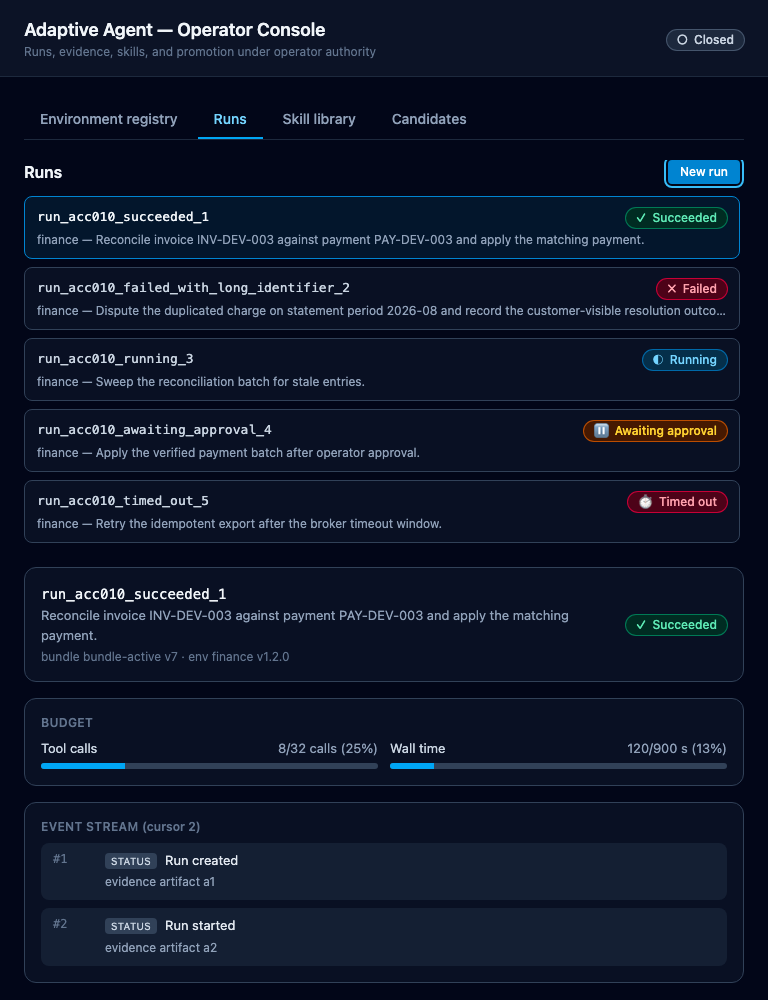
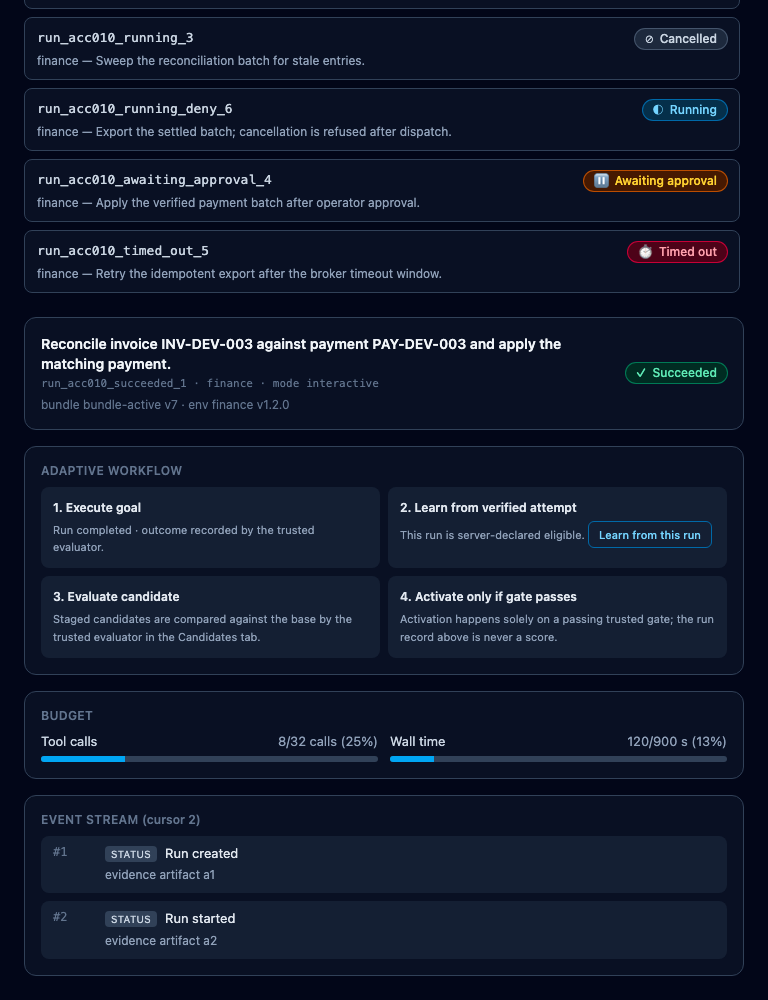
feat(console): visible adaptive workflow, carried Learn-from-this-run action; classified cancellation/focus-return QA
- WorkflowStrip on the run detail: Execute goal -> Learn from verified attempt -> Evaluate candidate -> Activate only if gate passes, with captions from actual records only (server-declared status/eligibility; candidates/evaluations pointed to the Candidates tab; no invented progress)
- 'Learn from this run' on server-declared learningEligible selected runs: carries the run into the existing learning dialog (preselected), respects refresh/loading; never implies generation is measured improvement or promotion
- run detail header now leads with the human task title, compact secondary IDs (runId/env/mode) beneath
- acc010 fixture server: classified POST /runs/{id}/cancel (success + honest 409 FORBIDDEN failure with correlation) for cancellation/recovery QA; in-memory only
- acc010-browser-qa: cancellation success (Cancelled badge + banner) and failure (error banner with correlation, status unchanged); learning-dialog focus-return via Escape verified (dialog closes, focus lands on the carried action's learning-cycle button after the tab switch; invoker-marked fallback in Modal)
- Modal: stable onClose ref (listeners/focus restore no longer churn per render)
- 68/68 tests, tsc clean, build clean

Changed region(s): [[0.0312, 0.0, 0.9688, 0.961], [0.8125, 0.0, 0.9688, 0.124], [0.0625, 0.899, 0.0938, 0.93]]

diff --git a/console/src/views/RunView.tsx b/console/src/views/RunView.tsx
@@ -30,6 +30,7 @@ export function RunView({
   onCreateRun,
   onActionError,
   onReconnect,
+  onLearnFromRun,
 }: {
   transport: ConsoleTransport;
   runs: RunRecord[];
@@ -44,6 +45,7 @@ export function RunView({
   onCreateRun: (input: CreateRunInput) => Promise<boolean>;
   onActionError: (message: string, correlationId?: string | null) => void;
   onReconnect: () => void;
+  onLearnFromRun: (runId: string) => void;
 }) {
   const selected = runs.find((r) => r.runId === selectedRunId) ?? null;
   const [approval, setApproval] = useState<{ request: ApprovalRequest } | null>(null);
@@ -156,8 +158,10 @@ export function RunView({
           <div className="space-y-4">
             <div className="flex flex-wrap items-center justify-between gap-3 rounded-xl border border-slate-700 bg-slate-900/60 p-4">
               <div className="min-w-0 flex-1">
-                <h3 className="break-all font-mono text-sm text-slate-100">{selected.runId}</h3>
-                <p className="mt-0.5 text-[13px] text-slate-400 [overflow-wrap:anywhere]">{selected.goal}</p>
+                <h3 className="text-sm font-semibold text-slate-100 [overflow-wrap:anywhere]">{selected.goal}</h3>
+                <p className="mt-0.5 font-mono text-[11px] text-slate-500">
+                  <span className="break-all">{selected.runId}</span> · {selected.environmentId} · mode {selected.executionMode ?? "interactive"}
+                </p>
                 <p className="mt-1 text-xs text-slate-500 [overflow-wrap:anywhere]">
                   bundle {selected.skillBundleRef.id} v{selected.skillBundleRef.version} · env {selected.environmentRef.id} v{selected.environmentRef.version}
                 </p>
@@ -175,6 +179,8 @@ export function RunView({
                 ) : null}
               </div>
             </div>
+
+            <WorkflowStrip selected={selected} onLearnFromRun={onLearnFromRun} />
 
             {connection === "stale" && (
               <Banner tone="warn" title="Event stream stale — reconnecting from the last acknowledged cursor" role="alert">
@@ -745,5 +751,60 @@ function ApprovalDialog({
         </div>
       </div>
     </Modal>
+  );
+}
+
+
+/** Honest four-stage workflow guidance using ONLY actual records: the run
+ *  stage reflects the selected run's server status; the learn stage exposes
+ *  the action when the server declares learningEligible; later stages point
+ *  to the Candidates tab where evaluation gates activation. No stage is ever
+ *  marked complete without server data. */
+function WorkflowStrip({
+  selected,
+  onLearnFromRun,
+}: {
+  selected: RunRecord;
+  onLearnFromRun: (runId: string) => void;
+}) {
+  const stages: Array<{ label: string; caption: React.ReactNode }> = [
+    {
+      label: "1. Execute goal",
+      caption: (
+        <>Run {selected.status === "succeeded" ? "completed" : selected.status === "failed" ? "failed" : `in progress (${selected.status})`} · outcome recorded by the trusted evaluator.</>
+      ),
+    },
+    {
+      label: "2. Learn from verified attempt",
+      caption:
+        selected.learningEligible ? (
+          <>This run is server-declared eligible.{" "}
+            <button
+              type="button"
+              onClick={() => onLearnFromRun(selected.runId)}
+              className="rounded-md border border-sky-700 px-2.5 py-1 text-[11px] font-medium text-sky-300 hover:bg-sky-950/60"
+            >
+              Learn from this run
+            </button>
+          </>
+        ) : (
+          <>Eligible after a server-verified outcome (declared per run).</>
+        ),
+    },
+    { label: "3. Evaluate candidate", caption: <>Staged candidates are compared against the base by the trusted evaluator in the Candidates tab.</> },
+    { label: "4. Activate only if gate passes", caption: <>Activation happens solely on a passing trusted gate; the run record above is never a score.</> },
+  ];
+  return (
+    <nav aria-label="Adaptive workflow" className="rounded-xl border border-slate-700 bg-slate-900/60 p-4">
+      <h4 className="text-xs font-semibold uppercase tracking-wide text-slate-500">Adaptive workflow</h4>
+      <ol className="mt-2 grid gap-2 sm:grid-cols-2 xl:grid-cols-4">
+        {stages.map((stage) => (
+          <li key={stage.label} className="rounded-lg bg-slate-800/60 p-3">
+            <p className="text-[12px] font-semibold text-slate-200">{stage.label}</p>
+            <p className="mt-1 text-[11px] leading-relaxed text-slate-400 [overflow-wrap:anywhere]">{stage.caption}</p>
+          </li>
+        ))}
+      </ol>
+    </nav>
   );
 }

diff --git a/console/src/views/CandidatesView.tsx b/console/src/views/CandidatesView.tsx
@@ -12,6 +12,8 @@ export function CandidatesView({
   onActionError,
   onRefreshCandidates,
   onRefreshRuns,
+  learningRequest,
+  onLearningRequestConsumed,
 }: {
   transport: ConsoleTransport;
   candidates: CandidateDiff[];
@@ -21,6 +23,9 @@ export function CandidatesView({
   onRefreshCandidates: () => void;
   /** refresh authoritative run records (eligibility) without a reload */
   onRefreshRuns: () => void;
+  /** carried selection from "Learn from this run": opens the dialog preselected */
+  learningRequest: { runId: string } | null;
+  onLearningRequestConsumed: () => void;
 }) {
   const [rollbackTarget, setRollbackTarget] = useState<CandidateDiff | null>(null);
   const [reason, setReason] = useState("");
@@ -28,6 +33,21 @@ export function CandidatesView({
   const [cycleOpen, setCycleOpen] = useState(false);
   const [cycleBusy, setCycleBusy] = useState(false);
   const [cycleRunId, setCycleRunId] = useState("");
+  // "Learn from this run" carries the selected run into this dialog
+  useEffect(() => {
+    if (learningRequest) {
+      onRefreshRuns();
+      setCycleRunId(learningRequest.runId);
+      setCycleOpen(true);
+      onLearningRequestConsumed();
+      // the dialog was invoked from another tab: its focus-return target is
+      // the learning-cycle action here (the original invoker unmounted)
+      requestAnimationFrame(() => {
+        document.querySelector("[data-acc010-learning-cycle]")?.setAttribute("data-acc010-focus-return", "");
+      });
+    }
+    // eslint-disable-next-line react-hooks/exhaustive-deps
+  }, [learningRequest]);
   const [notice, setNotice] = useState<{ tone: "good" | "bad"; text: string } | null>(null);
   const [evalJobs, setEvalJobs] = useState<EvaluationJob[] | null>(null);
   const [evalJobsError, setEvalJobsError] = useState<string | null>(null);
@@ -293,6 +313,7 @@ export function CandidatesView({
         onClose={() => setCycleOpen(false)}
         runs={eligibleRuns}
         busy={cycleBusy}
+        preselectedRunId={cycleRunId}
         onSubmit={(input) => void runCycle(input)}
       />
 
@@ -362,6 +383,7 @@ function LearningCycleButton({ busy, onRun }: { busy: boolean; onRun: () => void
         type="button"
         onClick={onRun}
         disabled={busy}
+        data-acc010-learning-cycle=""
         className="rounded-md bg-sky-600 px-4 py-1.5 text-sm font-medium text-white hover:bg-sky-500 disabled:opacity-60"
         title="Select a completed development run; the runtime generates the proposal and evidence"
       >
@@ -376,15 +398,22 @@ function LearningCycleModal({
   onClose,
   runs,
   busy,
+  preselectedRunId,
   onSubmit,
 }: {
   open: boolean;
   onClose: () => void;
   runs: RunRecord[];
   busy: boolean;
+  /** run carried in from "Learn from this run" (or a previous dialog session) */
+  preselectedRunId?: string;
   onSubmit: (input: LearningCycleInput) => void;
 }) {
-  const [runId, setRunId] = useState("");
+  const [runId, setRunId] = useState(preselectedRunId ?? "");
+  // keep the carried selection in sync when the dialog opens
+  useEffect(() => {
+    if (open && preselectedRunId) setRunId(preselectedRunId);
+  }, [open, preselectedRunId]);
   return (
     <Modal open={open} title="Run learning cycle" onClose={onClose}>
       <form

diff --git a/console/src/ui/qa-regressions.test.tsx b/console/src/ui/qa-regressions.test.tsx
@@ -161,6 +161,29 @@ describe("qa regressions: createRun recovery and honesty", () => {
     expect(await screen.findByText(/Proposal validation passed — this is not a performance result/)).toBeInTheDocument();
   });
 
+  it("shows the workflow strip and Learn-from-this-run only for server-declared eligible runs", async () => {
+    const user = userEvent.setup();
+    const sim = createSimulationTransport({ disconnectAfterEvents: 0 });
+    const runs = await sim.listRuns();
+    const eligible = { ...runs[3], learningEligible: true };
+    const ineligible = { ...runs[0], status: "running" as const, learningEligible: false };
+    const transport: ConsoleTransport = { ...sim, listRuns: async () => [eligible, ineligible] };
+    render(<App transport={transport} />);
+    await screen.findAllByRole("button", { name: /run-sim-1004/ });
+    // workflow guidance renders all four stages with honest captions
+    expect(screen.getByText("1. Execute goal")).toBeInTheDocument();
+    expect(screen.getByText("2. Learn from verified attempt")).toBeInTheDocument();
+    expect(screen.getByText("3. Evaluate candidate")).toBeInTheDocument();
+    expect(screen.getByText("4. Activate only if gate passes")).toBeInTheDocument();
+    // select the eligible run: the Learn action appears
+    await user.click(screen.getAllByRole("button", { name: /run-sim-1004/ })[0]);
+    expect(await screen.findByRole("button", { name: "Learn from this run" })).toBeInTheDocument();
+    // select the ineligible run: guidance replaces the action, no fake progress
+    await user.click(screen.getAllByRole("button", { name: /run-sim-1001/ })[0]);
+    await waitFor(() => expect(screen.queryByRole("button", { name: "Learn from this run" })).not.toBeInTheDocument());
+    expect(screen.getByText(/Eligible after a server-verified outcome/)).toBeInTheDocument();
+  });
+
   it("lists a run whose learningEligible flips true after the terminal outcome, without a full reload (QA run_a1662f…)", async () => {
     const user = userEvent.setup();
     const sim = createSimulationTransport({ disconnectAfterEvents: 0 });
@@ -256,7 +279,7 @@ describe("qa regressions: createRun recovery and honesty", () => {
     // default and only option is the declared mode
     expect(modeSelect).toHaveValue("dry_run");
     expect(within(modeSelect).getAllByRole("option")).toHaveLength(1);
-    expect(screen.queryByText(/interactive/)).not.toBeInTheDocument();
+    expect(within(dialog).queryByText(/interactive/)).not.toBeInTheDocument(); // only declared modes in the dialog
   });
 
   it("acknowledges successful package validation visibly", async () => {

diff --git a/console/src/components/ui.tsx b/console/src/components/ui.tsx
@@ -61,18 +61,23 @@ export function Modal({
 }) {
   const panelRef = useRef<HTMLDivElement>(null);
   const restoreRef = useRef<HTMLElement | null>(null);
+  // stable onClose: the effect subscribes once per open; a changing onClose
+  // identity must not tear down listeners or steal focus mid-render
+  const onCloseRef = useRef(onClose);
+  onCloseRef.current = onClose;
 
   useEffect(() => {
     if (!open) return;
     restoreRef.current = document.activeElement as HTMLElement | null;
     const panel = panelRef.current;
     // initial focus prefers the first text field (DOM order) over buttons
-    panel?.querySelector<HTMLElement>("textarea, input, select, button, [tabindex]")?.focus();
+    const activePanel = panel;
+    activePanel?.querySelector<HTMLElement>("textarea, input, select, button, [tabindex]")?.focus();
 
     const onKey = (event: KeyboardEvent) => {
       if (event.key === "Escape") {
         event.preventDefault();
-        onClose();
+        onCloseRef.current();
         return;
       }
       if (event.key !== "Tab" || !panel) return;
@@ -90,12 +95,32 @@ export function Modal({
         first.focus();
       }
     };
+    // Attach to BOTH the panel and the document. The panel listener covers
+    // keys pressed inside the focused dialog; the document listener covers
+    // synthetic/edge cases. Each effect removes exactly its own listeners.
+    activePanel?.addEventListener("keydown", onKey);
     document.addEventListener("keydown", onKey);
     return () => {
+      activePanel?.removeEventListener("keydown", onKey);
       document.removeEventListener("keydown", onKey);
-      restoreRef.current?.focus();
+      // restore focus to the invoking control. An explicitly marked
+      // focus-return target (set when the invoking control unmounts, e.g., a
+      // tab switch carried the action elsewhere) takes precedence; otherwise
+      // restore to the captured element when it is still connected.
+      const marked = document.querySelector<HTMLElement>("[data-acc010-focus-return]");
+      if (marked?.isConnected) {
+        marked.focus();
+        marked.removeAttribute("data-acc010-focus-return");
+        return;
+      }
+      const restore = restoreRef.current;
+      if (restore && restore.isConnected) {
+        restore.focus();
+        return;
+      }
+      document.querySelector<HTMLElement>("[data-acc010-learning-cycle]")?.focus();
     };
-  }, [open, onClose]);
+  }, [open]);
 
   if (!open) return null;
   return (

diff --git a/console/src/dbg.test.tsx b/console/src/dbg.test.tsx
@@ -1,25 +1,26 @@
 import { describe, expect, it } from "vitest";
-import { normalizeSseEvent } from "./api/validate";
+import { render, screen, waitFor } from "@testing-library/react";
+import userEvent from "@testing-library/user-event";
+import { App } from "./App";
+import { createSimulationTransport } from "./api/simulation";
 
-describe("dbg wire", () => {
-  it("qa captured payload", () => {
-    const wire = {
-      id: 1,
-      event: "run_created",
-      data: {
-        evidence_id: "ev_370205e6caa74d32b05b04c2377deab0",
-        run_id: "run_873a94b0ce424e7699709663b461eb13",
-        sequence: 1,
-        event_type: "run_created",
[2 lines of base64/hex data omitted]
-        trust_class: "system",
-        visibility: "learner",
-        redacted: 1,
-      },
-    };
-    const e = normalizeSseEvent(wire, "sse");
-    console.log("PARSED:", JSON.stringify(e));
-    expect(e.sequence).toBe(1);
+describe("dbg escape", () => {
+  it("escape closes learning dialog", async () => {
+    const user = userEvent.setup();
+    render(<App transport={createSimulationTransport({ disconnectAfterEvents: 0 })} />);
+    await screen.findAllByRole("button", { name: /run-sim-1004/ });
+    await user.click(screen.getAllByRole("button", { name: "New run" })[0]);
+    const dialog = await screen.findByRole("dialog", { name: "Create run" });
+    let docEvents = 0;
+    document.addEventListener("keydown", () => { docEvents += 1; });
+    const active = document.activeElement?.tagName;
+    await user.keyboard("{Escape}");
+    if (docEvents === 0) throw new Error("UE-DEBUG " + JSON.stringify({ docEvents, active }));
+    const { fireEvent } = await import("@testing-library/react");
+    fireEvent.keyDown(document, { key: "Escape" });
+    await new Promise((r) => setTimeout(r, 100));
+    console.log("AFTER_SYNTHETIC:", screen.queryByRole("dialog") === null ? "closed" : "open");
+    await waitFor(() => expect(screen.queryByRole("dialog")).not.toBeInTheDocument(), { timeout: 2000 });
+    expect(true).toBe(true);
   });
 });

diff --git a/console/src/App.tsx b/console/src/App.tsx
@@ -50,6 +50,7 @@ export function App({ transport: transportProp }: { transport?: ConsoleTransport
   });
   const [activeTab, setActiveTab] = useState<TabId>("runs");
   const [streamNonce, setStreamNonce] = useState(0);
+  const [learningRequest, setLearningRequest] = useState<{ runId: string } | null>(null);
   const closeStreamRef = useRef<(() => void) | null>(null);
   const tabRefs = useRef<(HTMLButtonElement | null)[]>([]);
 
@@ -393,6 +394,14 @@ export function App({ transport: transportProp }: { transport?: ConsoleTransport
               onSelectRun={(runId) => dispatch({ type: "selectRun", runId })}
               onCancel={(run) => void cancelRun(run.runId)}
               onCreateRun={createRun}
+              onLearnFromRun={(runId) => {
+                // the invoking control unmounts when the tab switches: mark it
+                // so the dialog can return focus here on close
+                const invoker = document.activeElement;
+                if (invoker instanceof HTMLElement) invoker.setAttribute("data-acc010-focus-return", "");
+                setLearningRequest({ runId });
+                setActiveTab("candidates");
+              }}
               onActionError={(message, correlationId) => dispatch({ type: "actionError", message, correlationId })}
               onReconnect={() => void manualReconnect()}
             />
@@ -407,6 +416,8 @@ export function App({ transport: transportProp }: { transport?: ConsoleTransport
               onActionError={(message, correlationId) => dispatch({ type: "actionError", message, correlationId })}
               onRefreshCandidates={() => void refreshCandidates()}
               onRefreshRuns={() => void refreshRunRecords(true)}
+              learningRequest={learningRequest}
+              onLearningRequestConsumed={() => setLearningRequest(null)}
             />
           )}
         </div>
